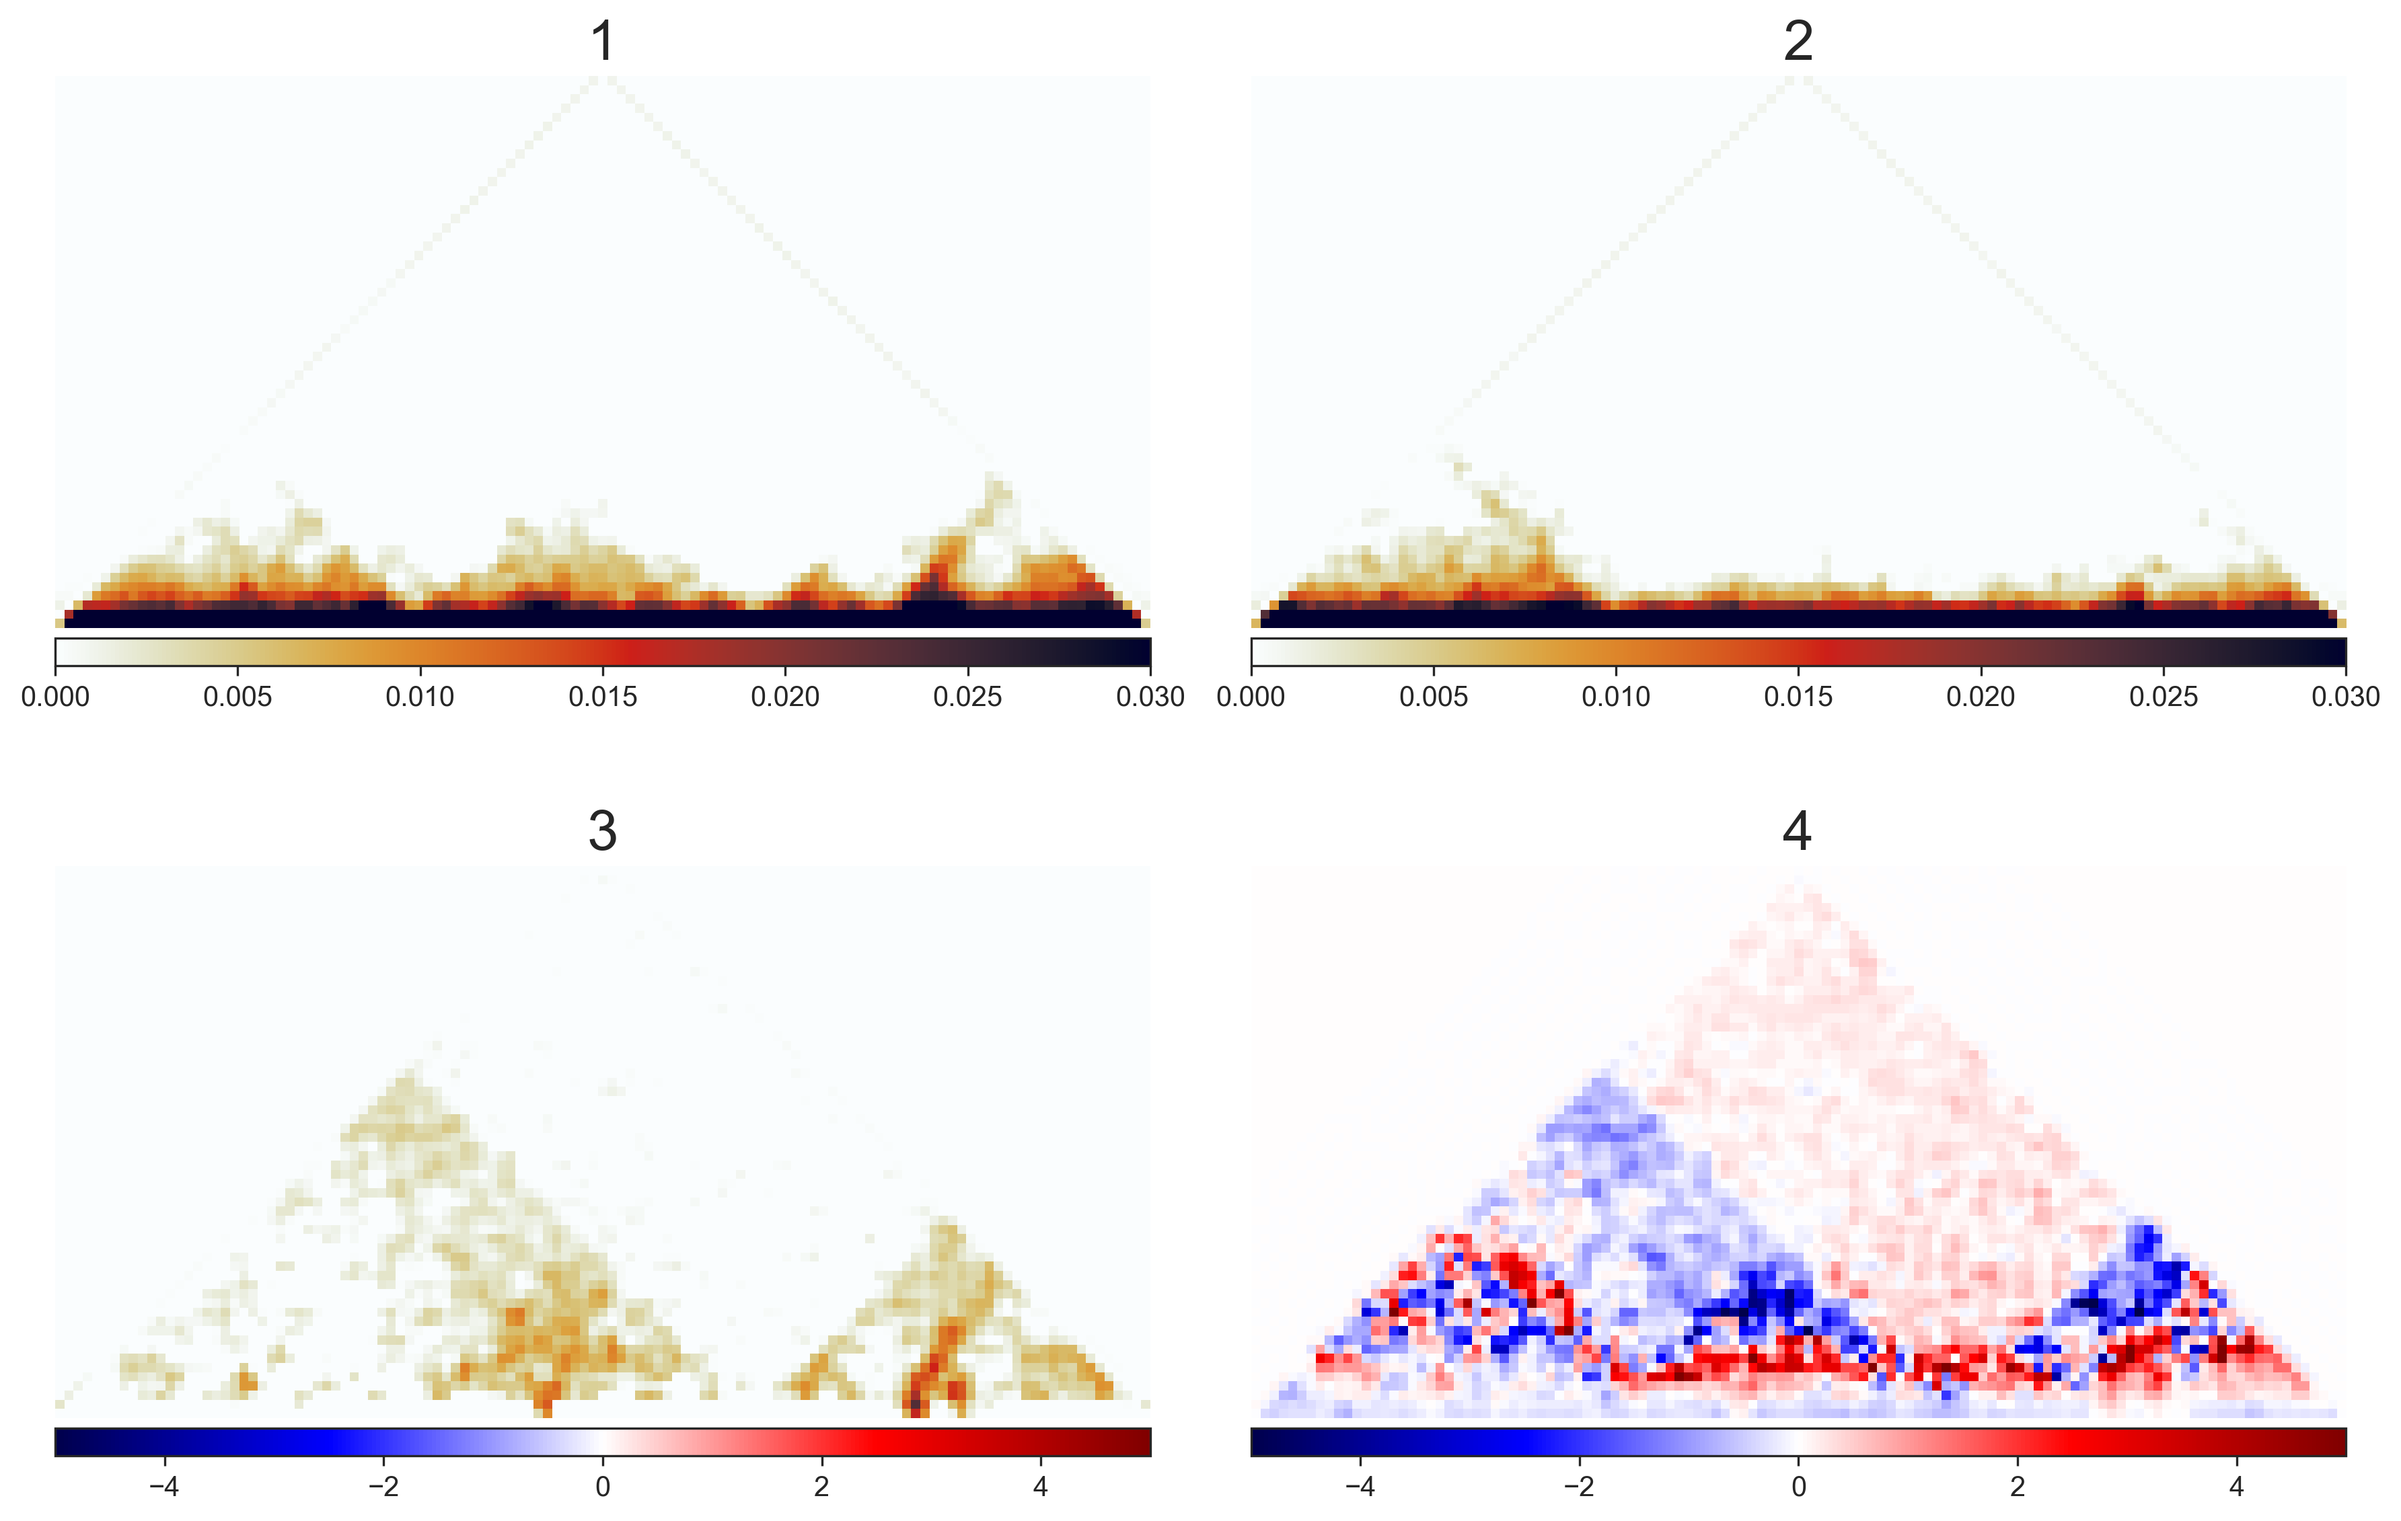
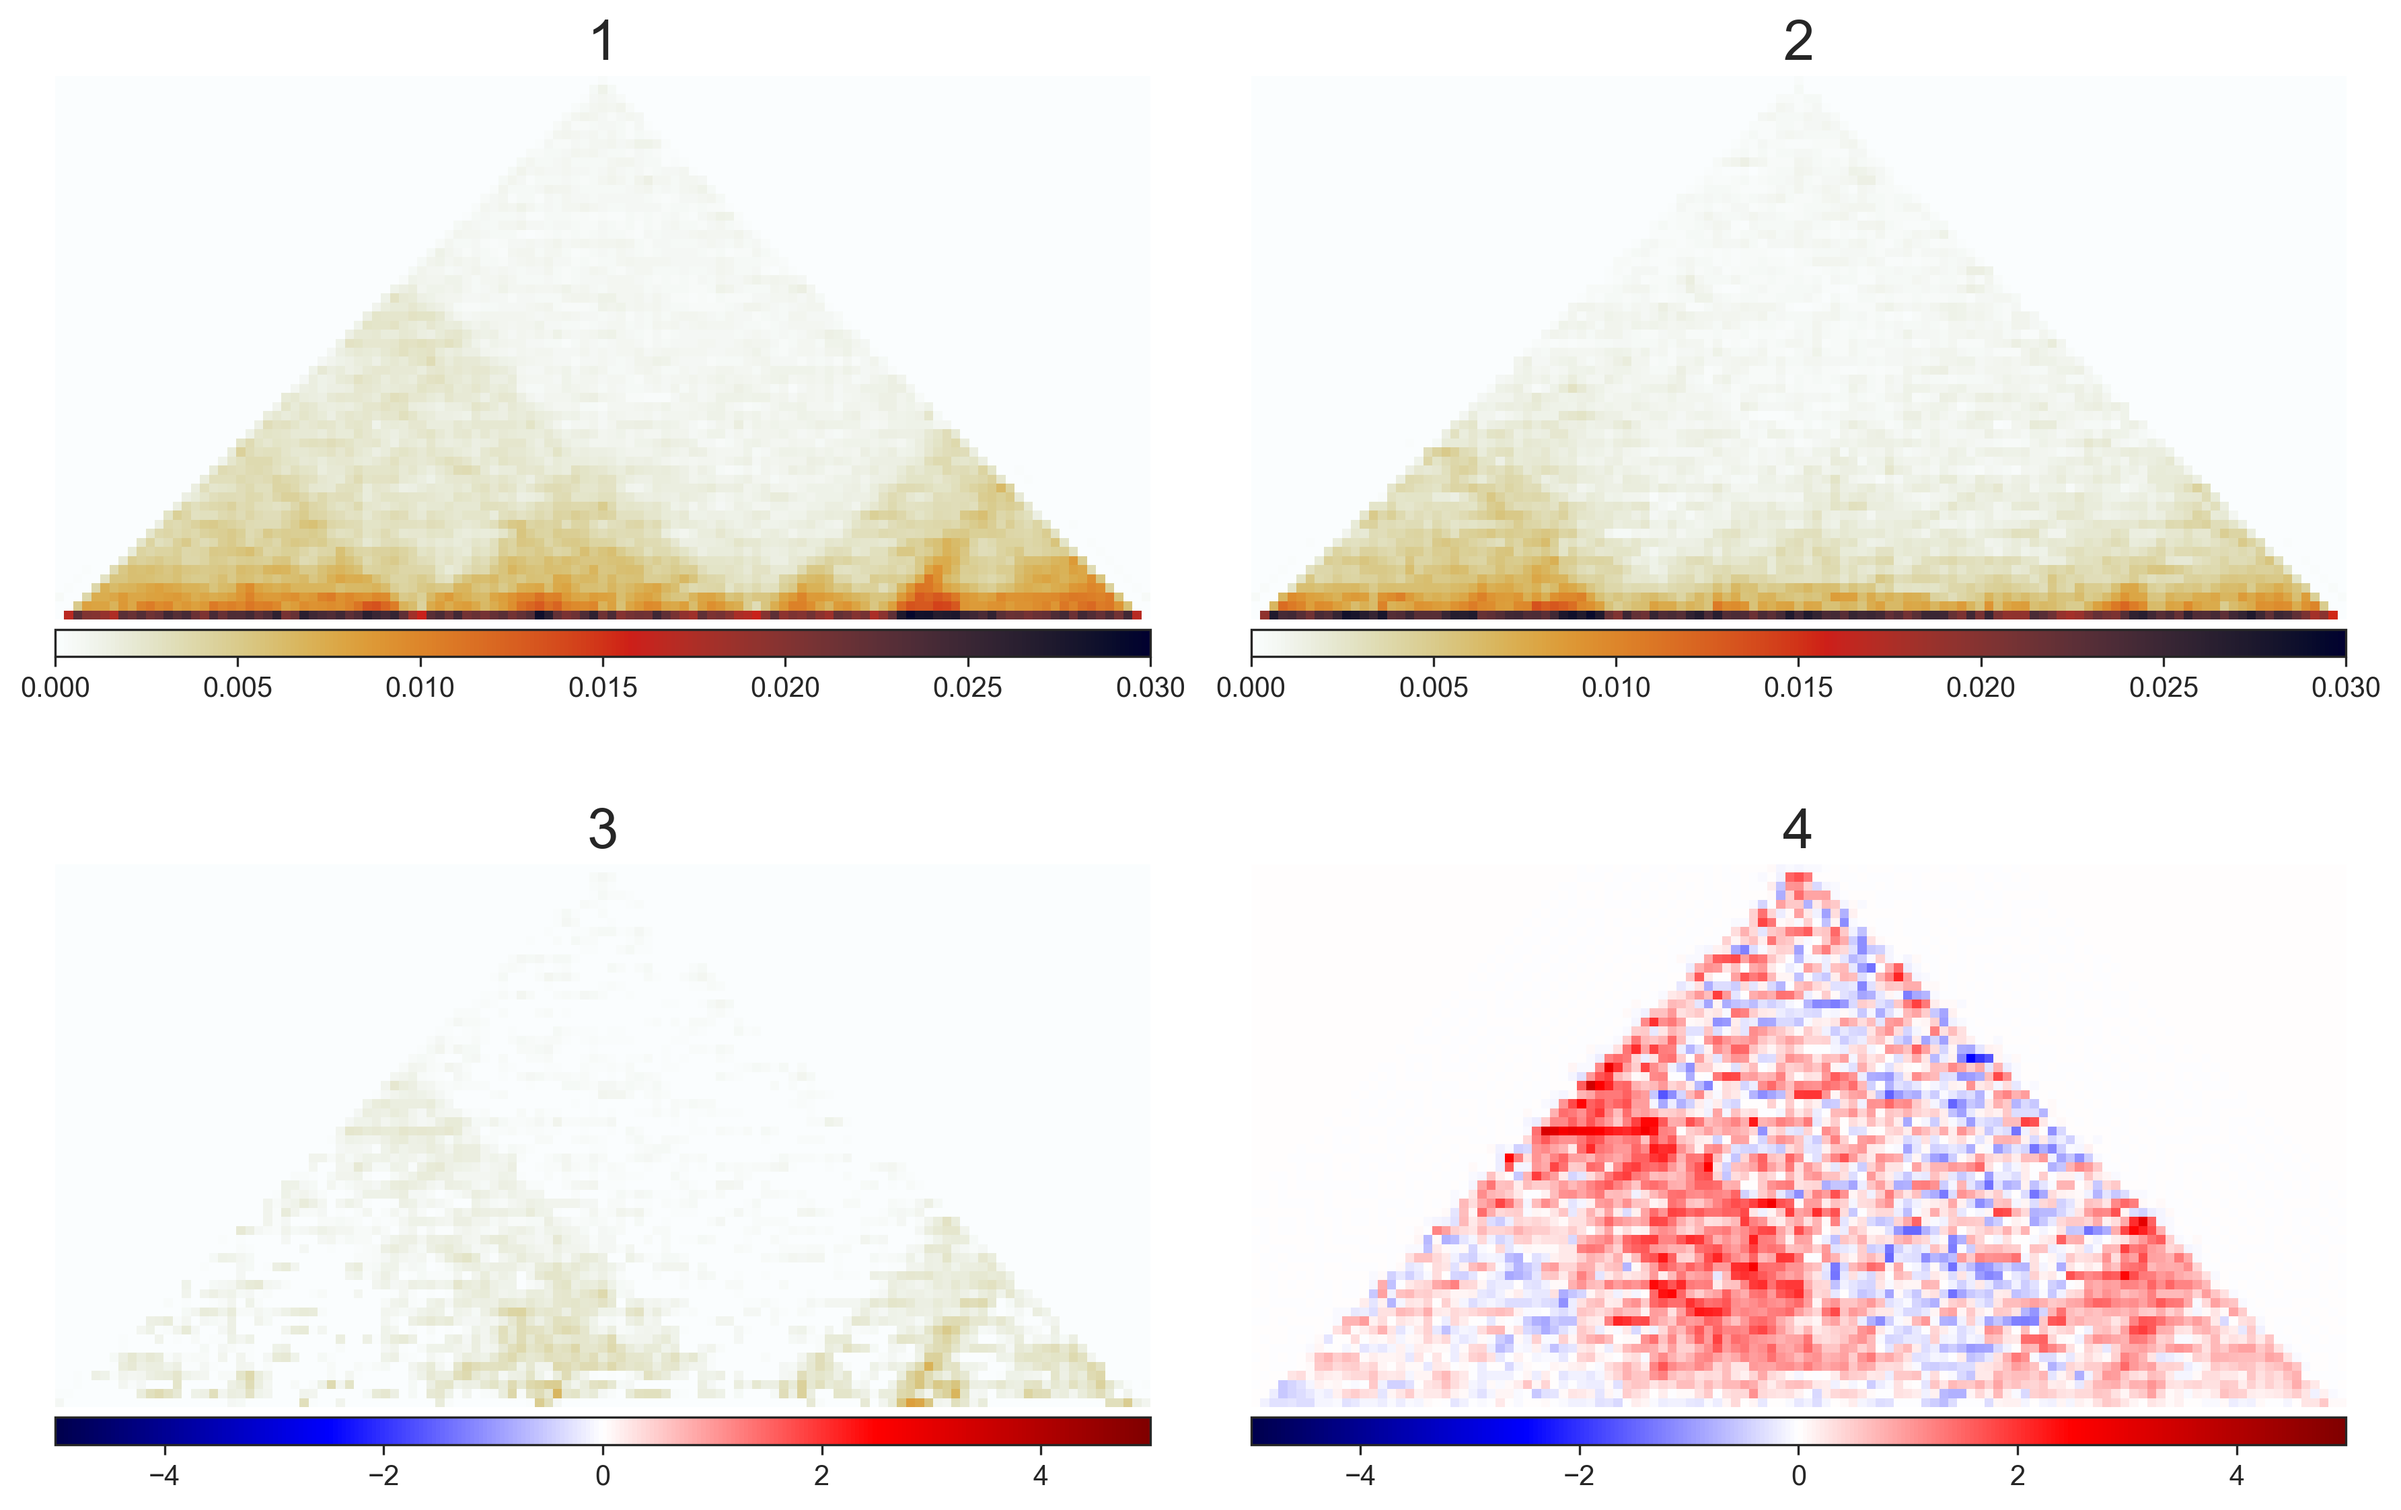
updated stats

diff --git a/all_plots/README.md b/all_plots/README.md
@@ -5,7 +5,8 @@ every experiment is outlined below. the following experiments are applied onto t
 * `simple_diff` - takes simple diff of two hic matrices to expose areas of difference.
 * `pca_hic` - applies pca to hic matrix1 and matrix2. reduces noise on the matrices before comparing them. includes stat to determine which window size best eliminates noise.
 * `autoencoder_hic` - applies autoencoder to hic matrices to remove noise. autoencoder is trained on original matrix and used to denoise the query matrix. 
-* TODO add more
+* `matrix_transformation_hic` 
+* `singular_value_threshold_hic`
 
 ### dlbcl dataset info
 using data with chromatin conformation changes in B-cells of a diffuse large B-cell lymphoma (DLBCL) patient.
@@ -20,30 +21,86 @@ Figure 1.2: raw data of control dlbcl sample from dlbcl with blue bounding boxes
 Figure 1.3: simple diff of patient - control <br>
 Figure 1.4: log2(patient/control) <br>
 
-stats: <br>
-
 * `pca_hic`
 ![pca_hic](dlbcl/pca_hic.png)
-Figure 3 <br>
+Figure 2 <br>
 caption: <br>
 experiment used a 3x3 window size. <br>
-Figure 3.1: PCA applied to on patient <br>
-Figure 3.2: PCA applied to control <br>
-Figure 3.3: Difference of PCA patient - control <br>
-Figure 3.4: log transformation of PCA applied patient/control <br>
+Figure 2.1: PCA applied to on patient <br>
+Figure 2.2: PCA applied to control <br>
+Figure 2.3: Difference of PCA patient - control <br>
+Figure 2.4: log transformation of PCA applied patient/control <br>
 
-stats: <br>
+stats for patient dataset
+- RMSE: 0.0008698776305886675
+- SSIM: 0.9455008878561836
+- Explained Variance: 0.9791310059549767
+<br> <br>
+stats for control dataset
+- RMSE: 0.0010030784322756757
+- SSIM: 0.931176674663269
+- Explained Variance: 0.9786093352737302
+
 
 * `autoencoder_hic`
 ![autoencoder_pca](dlbcl/autoencoder_hic.png)
+Figure 3 <br>
+caption: <br>
+Figure 3.1: autoencoder applied onto patient sample <br>
+Figure 3.2: autoencoder applied onto control sample <br>
+Figure 3.3: autoencoder applied patient - control <br>
+Figure 3.4: log transformation of autoencoder applied patient / control <br>
+
+stats for patient
+- RMSE: 0.003268624836516338
+- SSIM: 0.5603837090570739
+- Explained Variance: 0.7053439802088456
+<br> <br>
+stats for control
+- RMSE: 0.004033890547864682
+- SSIM: 0.4292017638059828
+- Explained Variance: 0.6540683637257909
+
+
+* `matrix_factorization_hic`
+![mf_hic](dlbcl/mf_hic.png)
 Figure 4 <br>
 caption: <br>
-Figure 4.1: autoencoder applied onto patient sample <br>
-Figure 4.2: autoencoder applied onto control sample <br>
-Figure 4.3: autoencoder applied patient - control <br>
-Figure 4.4: log transformation of autoencoder applied patient / control <br>
+Figure 4.1: mf applied onto patient sample <br>
+Figure 4.2: mf applied onto control sample <br>
+Figure 4.3: mf applied patient - control <br>
+Figure 4.4: log transformation of mf applied patient / control <br>
 
-stats: <br>
+stats for patient
+- RMSE: 0.002808144378972066
+- SSIM: 0.8017047363074518
+- Explained Variance: 0.7825176204503851
+<br> <br>
+stats for control
+- RMSE: 0.0036945295982092788
+- SSIM: 0.7096551058333078
+- Explained Variance: 0.7098164730735839
+
+
+* `singular_value_threshold_hic`
+![svt_hic](dlbcl/svt_hic.png)
+Figure 5 <br>
+caption: <br>
+Figure 5.1: svt applied onto patient sample <br>
+Figure 5.2: svt applied onto control sample <br>
+Figure 5.3: svt applied patient - control <br>
+Figure 5.4: log transformation of svt applied patient / control <br>
+
+stats for patient
+- RMSE: 0.002485035109289444
+- SSIM: 0.8781677258370684
+- Explained Variance: 0.8326963633963829
+<br> <br>
+stats for control
+- RMSE: 0.0026973264071887834
+- SSIM: 0.8805868416864833
+- Explained Variance: 0.847643967056996
+
 
 ### noise added to dlbcl data
 in this experiment, noise is added with gaussian blur layers to the dlbcl data. the experiments are conducted to see how well it removes the manually added noise.
@@ -51,7 +108,7 @@ in this experiment, noise is added with gaussian blur layers to the dlbcl data. 
 * original data
 noise added to original data in increments
 ![original syn data](noise/original_data.png)
-Figure 5 <br>
+Figure 6 <br>
 caption: <br>
 - first row is patient data with increasing noise
 - second row is control data with increasing noise 
@@ -60,7 +117,7 @@ stats: <br>
 
 * `pca_hic` 
 ![pca hic](noise/pca_hic.png)
-Figure 6 <br>
+Figure 7 <br>
 caption: <br>
 - first row is pca applied onto patient noise data
 - second row is pca applied onto control noise data
@@ -70,10 +127,38 @@ stats: <br>
 
 * `autoencoder_hic`
 ![autoencoder hic](noise/autoencoder_hic.png)
-Figure 7 <br>
+Figure 8 <br>
 caption: <br>
 - first row is autoencoder applied onto patient noise data
 - second row is autoencoder applied onto control noise data
 - third row is autoencoder of respective pca applied patient - control 
+
+stats: <br>
+
+* `mf_hic`
+![mf hic](noise/mf_hic.png)
+Figure 9 <br>
+caption: <br>
+- first row is autoencoder applied onto patient noise data
+- second row is autoencoder applied onto control noise data
+- third row is autoencoder of respective pca applied patient - control 
+
+stats: <br>
+
+* `svt_hic`
+![sct hic](noise/svt_hic.png)
+Figure 10 <br>
+caption: <br>
+- first row is autoencoder applied onto patient noise data
+- second row is autoencoder applied onto control noise data
+- third row is autoencoder of respective pca applied patient - control 
+
+stats: <br>
+
+* `noise_plot`
+![noise plot](noise/all_hic.png)
+Figure 11 <br>
+caption: <br>
+- plot of increasing noise on x axis and stats on y axis of sim for different experiments.
 
 stats: <br>
